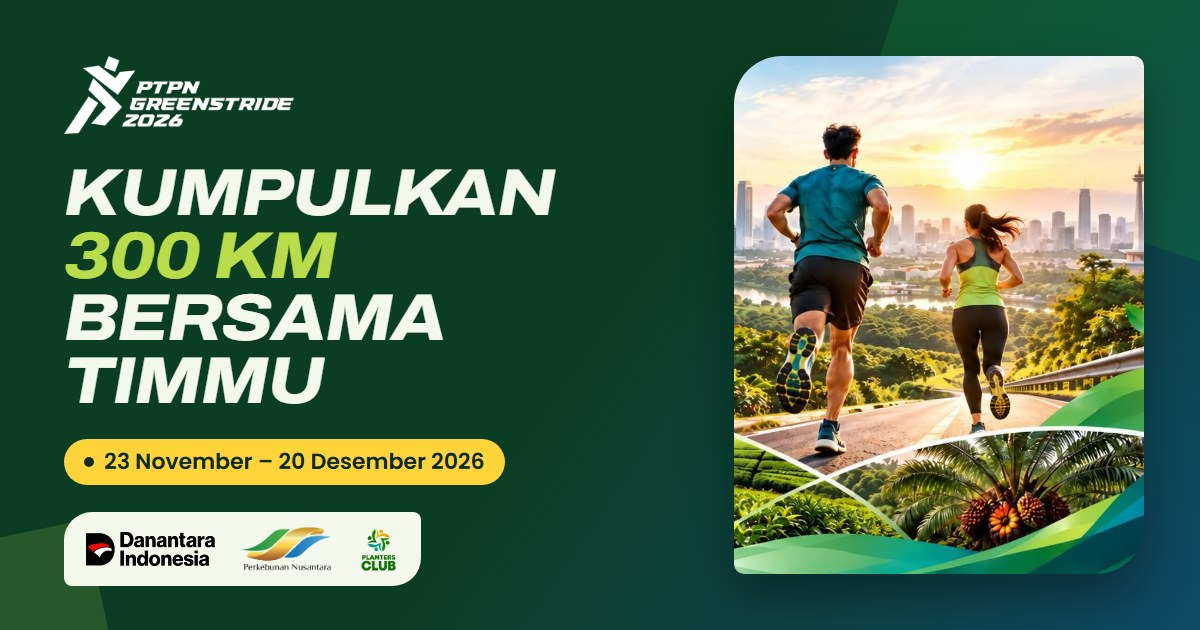
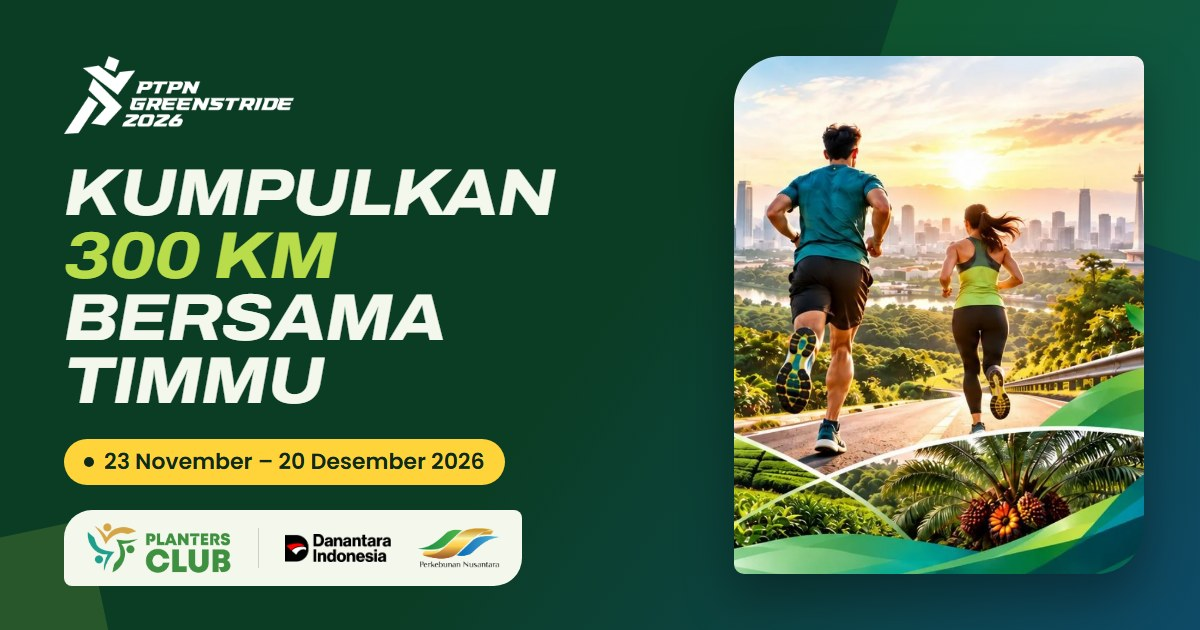
update branding planters club

Changed region(s): [[0.0617, 0.7841, 0.4625, 0.9349]]

diff --git a/app/landing.css b/app/landing.css
@@ -7,7 +7,8 @@ a { color: var(--leaf); }
 ::selection { background: var(--lime); color: var(--on-lime); }
 
 .wrap { width: 100%; max-width: calc(var(--container) + 2 * var(--space-5)); margin-inline: auto; padding-inline: max(var(--space-5), env(safe-area-inset-left, 0px)) max(var(--space-5), env(safe-area-inset-right, 0px)); }
-.section { padding-block: var(--space-9); }
+/* clip (bukan hidden) memotong hiasan yang keluar tepi, misalnya daun di belakang ponsel AppSteps, tanpa merusak sticky. */
+.section { padding-block: var(--space-9); overflow-x: clip; }
 .section--tint { background: var(--surface-tint); }
 .section__head { margin-bottom: var(--space-7); }
 .section__head--row { display: flex; flex-wrap: wrap; align-items: end; justify-content: space-between; gap: var(--space-5); }
@@ -89,9 +90,6 @@ a { color: var(--leaf); }
 .help__body { padding-bottom: var(--space-8); }
 .help__actions { display: flex; flex-wrap: wrap; gap: var(--space-3); align-items: flex-start; margin-top: var(--space-6); }
 .help__runner { display: block; width: 210px; height: auto; align-self: end; }
-.copy-template { display: grid; gap: var(--space-2); }
-.copy-template__status { margin: 0; min-height: 1.4em; font-size: 14px; color: var(--band-muted); }
-.copy-template textarea { width: min(100%, 420px); padding: var(--space-3); border-radius: var(--radius-sm); border: 1px solid var(--band-muted); background: var(--band); color: var(--band-ink); font: 400 14px/1.5 var(--font-text); }
 
 /* ───────── Footer */
 .footer { margin-top: var(--space-9); background: var(--band); color: var(--band-ink); }
@@ -99,13 +97,12 @@ a { color: var(--leaf); }
 .footer__brand { width: 200px; height: auto; }
 .footer__line { margin: var(--space-5) 0 0; font: italic 800 26px/1.15 var(--font-display); font-stretch: 112%; color: var(--lime); }
 .footer__logos { display: inline-flex; flex-wrap: wrap; align-items: center; gap: var(--space-5) var(--space-6); margin-top: var(--space-6); padding: var(--space-4) var(--space-5); background: var(--band-ink); border-radius: var(--radius-leaf) var(--radius-sm); }
-.footer__logos img { height: 36px; width: auto; }
-.footer__logos img + img { height: 48px; }
-.footer__logos img:last-child { height: 56px; }
+.footer__logos img { width: auto; }
+.footer__logo-brand { height: 56px; }
+.footer__logo-parents { display: inline-flex; align-items: center; gap: var(--space-5); padding-left: var(--space-6); border-left: 1px solid rgba(15, 42, 27, 0.18); }
+.footer__logo-parents img:first-child { height: 26px; }
+.footer__logo-parents img:last-child { height: 36px; }
 
-/* logo asli berwarna: di tema gelap, logo header duduk di pelat terang */
-@media (prefers-color-scheme: dark) { :root:not([data-theme="light"]) .gs-nav__logos { padding: 6px var(--space-4); background: var(--band-ink); border-radius: var(--radius-pill); } }
-:root[data-theme="dark"] .gs-nav__logos { padding: 6px var(--space-4); background: var(--band-ink); border-radius: var(--radius-pill); }
 .footer__nav { display: grid; grid-template-columns: repeat(2, minmax(0, 1fr)); gap: var(--space-2) var(--space-5); align-content: start; }
 .footer__nav h3 { grid-column: 1 / -1; margin: 0 0 var(--space-2); font: 600 12px/1.3 var(--font-text); letter-spacing: 0.1em; text-transform: uppercase; color: var(--band-muted); }
 .footer__nav a { padding: 6px 0; color: var(--band-ink); text-decoration: none; font-size: 15px; background: linear-gradient(var(--lime), var(--lime)) 0 100% / 0 2px no-repeat; transition: background-size var(--dur-base) var(--ease-out); justify-self: start; }
@@ -115,7 +112,7 @@ a { color: var(--leaf); }
 
 /* ───────── Responsif */
 @media (max-width: 1080px) {
-  .hero__inner { grid-template-columns: 1fr; gap: var(--space-7); }
+  .hero__inner { grid-template-columns: minmax(0, 1fr); gap: var(--space-7); }
   .hero__visual { max-width: 560px; }
   .hero__count { left: var(--space-4); }
   .faq-center { grid-template-columns: 1fr; }
@@ -132,7 +129,7 @@ a { color: var(--leaf); }
   .split__side { position: static; }
   .apps { grid-template-columns: 1fr; }
   .help { grid-template-columns: 1fr; padding: var(--space-6) var(--space-5) 0; }
-  .help__runner { justify-self: end; width: 150px; margin-top: calc(-1 * var(--space-8)); }
+  .help__runner { justify-self: end; width: 150px; margin-top: calc(-1 * var(--space-6)); }
   .help__body { padding-bottom: 0; }
   .footer__inner { grid-template-columns: 1fr; }
 }
@@ -142,6 +139,11 @@ a { color: var(--leaf); }
   .section__head { margin-bottom: var(--space-6); }
   .hero__inner { padding-block: var(--space-7) var(--space-8); }
   .hero__brand { width: 160px; margin-bottom: var(--space-5); }
+  /* "KUMPULKAN" di 42 px selebar 312 px; di bawah ~350 px judul mengecil ikut layar agar tidak terpotong. */
+  .hero h1 { font-size: min(42px, 12vw); }
+  .footer__logos { display: grid; justify-items: start; gap: var(--space-4); }
+  .footer__logo-brand { height: 48px; }
+  .footer__logo-parents { justify-self: stretch; padding: var(--space-4) 0 0; border-left: 0; border-top: 1px solid rgba(15, 42, 27, 0.18); }
   .hero__lead { font-size: 17px; }
   .hero__actions .gs-btn { flex: 1 1 100%; }
   .hero__count { position: relative; left: 0; width: 100%; margin-top: calc(-1 * var(--space-8)); }

diff --git a/app/ds.css b/app/ds.css
@@ -233,34 +233,30 @@
 @media (max-width: 520px) { .gs-split { padding: var(--space-5); } .gs-split__num { font-size: 40px; } }
 
 /* ───────── Navbar */
-.gs-nav { position: sticky; top: 0; z-index: 20; background: var(--surface-raised); border-bottom: 1px solid var(--line); transition: box-shadow var(--dur-base) var(--ease-out); }
+/* Header berdiri di `band` di kedua tema agar logo Planters Club putih selalu terbaca; menyambung ke hero. */
+.gs-nav { position: sticky; top: 0; z-index: 20; background: var(--band); color: var(--band-ink); border-bottom: 1px solid rgba(243, 247, 236, 0.12); transition: box-shadow var(--dur-base) var(--ease-out); }
 .gs-nav--scrolled { box-shadow: var(--shadow-md); }
 .gs-nav__bar { display: flex; align-items: center; gap: var(--space-5); max-width: var(--container); height: 72px; margin: 0 auto; padding: 0 var(--space-5); }
-.gs-nav__logos { display: flex; align-items: center; gap: var(--space-4); text-decoration: none; }
-.gs-nav__logo { display: inline-flex; align-items: center; }
-.gs-nav__logo img { height: 30px; width: auto; }
-.gs-nav__logo + .gs-nav__logo { padding-left: var(--space-4); border-left: 1px solid var(--line); }
-.gs-nav__logo + .gs-nav__logo img { height: 38px; }
-.gs-logo--dark { display: none; }
-[data-theme="dark"] .gs-logo--light { display: none; }
-[data-theme="dark"] .gs-logo--dark { display: block; }
-@media (prefers-color-scheme: dark) { :root:not([data-theme="light"]) .gs-logo--light { display: none; } :root:not([data-theme="light"]) .gs-logo--dark { display: block; } }
+/* Header hanya memuat logo Planters Club horizontal tanpa pelat: berwarna asli di tema terang, versi putih (srcDark) di tema gelap. */
+.gs-nav__logos { display: flex; align-items: center; min-width: 0; text-decoration: none; }
+.gs-nav__logo { display: inline-flex; align-items: center; flex: none; }
+.gs-nav__logo img { height: 44px; width: auto; }
 .gs-nav__links { display: flex; gap: var(--space-1); margin-left: auto; }
-.gs-nav__links a { position: relative; padding: var(--space-2) var(--space-3); font: 500 15px/1 var(--font-text); color: var(--ink); text-decoration: none; border-radius: var(--radius-sm); transition: color var(--dur-fast) var(--ease-out); }
-.gs-nav__links a::after { content: ""; position: absolute; left: var(--space-3); right: var(--space-3); bottom: 2px; height: 2px; background: var(--leaf); transform: scaleX(0); transform-origin: left; transition: transform var(--dur-base) var(--ease-out); }
-.gs-nav__links a:hover { color: var(--leaf); }
+.gs-nav__links a { position: relative; padding: var(--space-2) var(--space-3); font: 500 15px/1 var(--font-text); color: var(--band-ink); text-decoration: none; white-space: nowrap; border-radius: var(--radius-sm); transition: color var(--dur-fast) var(--ease-out); }
+.gs-nav__links a::after { content: ""; position: absolute; left: var(--space-3); right: var(--space-3); bottom: 2px; height: 2px; background: var(--lime); transform: scaleX(0); transform-origin: left; transition: transform var(--dur-base) var(--ease-out); }
+.gs-nav__links a:hover { color: var(--lime); }
 .gs-nav__links a:hover::after, .gs-nav__links a[aria-current="true"]::after { transform: scaleX(1); }
-.gs-nav__toggle { display: none; margin-left: auto; width: 44px; height: 44px; border: 1px solid var(--line); border-radius: 50%; background: var(--surface-raised); color: var(--ink); cursor: pointer; place-items: center; }
+.gs-nav__toggle { display: none; margin-left: auto; width: 44px; height: 44px; border: 1px solid var(--band-muted); border-radius: 50%; background: transparent; color: var(--band-ink); cursor: pointer; place-items: center; transition: background var(--dur-fast) var(--ease-out); }
+.gs-nav__toggle:hover { background: var(--band-raised); }
 .gs-nav__sheet { display: none; }
 @media (max-width: 860px) {
   .gs-nav__bar { height: 64px; padding: 0 var(--space-4); }
+  .gs-nav__logo img { height: 36px; }
   .gs-nav__links, .gs-nav__cta { display: none; }
   .gs-nav__toggle { display: grid; }
-  .gs-nav__logo img { height: 24px; }
-  .gs-nav__logo + .gs-nav__logo img { height: 30px; }
-  .gs-nav__sheet[data-open="true"] { display: grid; gap: var(--space-1); padding: var(--space-3) var(--space-4) var(--space-5); border-top: 1px solid var(--line); }
-  .gs-nav__sheet a:not(.gs-btn) { display: flex; align-items: center; min-height: 52px; padding: 0 var(--space-3); font: 600 17px/1 var(--font-text); color: var(--ink); text-decoration: none; border-radius: var(--radius-sm); }
-  .gs-nav__sheet a:not(.gs-btn):hover { background: var(--surface-tint); }
+  .gs-nav__sheet[data-open="true"] { display: grid; gap: var(--space-1); padding: var(--space-3) var(--space-4) var(--space-5); border-top: 1px solid rgba(243, 247, 236, 0.12); }
+  .gs-nav__sheet a:not(.gs-btn) { display: flex; align-items: center; min-height: 52px; padding: 0 var(--space-3); font: 600 17px/1 var(--font-text); color: var(--band-ink); text-decoration: none; border-radius: var(--radius-sm); }
+  .gs-nav__sheet a:not(.gs-btn):hover { background: var(--band-raised); }
   .gs-nav__sheet .gs-btn { margin-top: var(--space-3); }
 }
 

diff --git a/design-system/project/components/bundle.css b/design-system/project/components/bundle.css
@@ -233,34 +233,30 @@
 @media (max-width: 520px) { .gs-split { padding: var(--space-5); } .gs-split__num { font-size: 40px; } }
 
 /* ───────── Navbar */
-.gs-nav { position: sticky; top: 0; z-index: 20; background: var(--surface-raised); border-bottom: 1px solid var(--line); transition: box-shadow var(--dur-base) var(--ease-out); }
+/* Header berdiri di `band` di kedua tema agar logo Planters Club putih selalu terbaca; menyambung ke hero. */
+.gs-nav { position: sticky; top: 0; z-index: 20; background: var(--band); color: var(--band-ink); border-bottom: 1px solid rgba(243, 247, 236, 0.12); transition: box-shadow var(--dur-base) var(--ease-out); }
 .gs-nav--scrolled { box-shadow: var(--shadow-md); }
 .gs-nav__bar { display: flex; align-items: center; gap: var(--space-5); max-width: var(--container); height: 72px; margin: 0 auto; padding: 0 var(--space-5); }
-.gs-nav__logos { display: flex; align-items: center; gap: var(--space-4); text-decoration: none; }
-.gs-nav__logo { display: inline-flex; align-items: center; }
-.gs-nav__logo img { height: 30px; width: auto; }
-.gs-nav__logo + .gs-nav__logo { padding-left: var(--space-4); border-left: 1px solid var(--line); }
-.gs-nav__logo + .gs-nav__logo img { height: 38px; }
-.gs-logo--dark { display: none; }
-[data-theme="dark"] .gs-logo--light { display: none; }
-[data-theme="dark"] .gs-logo--dark { display: block; }
-@media (prefers-color-scheme: dark) { :root:not([data-theme="light"]) .gs-logo--light { display: none; } :root:not([data-theme="light"]) .gs-logo--dark { display: block; } }
+/* Header hanya memuat logo Planters Club horizontal tanpa pelat: berwarna asli di tema terang, versi putih (srcDark) di tema gelap. */
+.gs-nav__logos { display: flex; align-items: center; min-width: 0; text-decoration: none; }
+.gs-nav__logo { display: inline-flex; align-items: center; flex: none; }
+.gs-nav__logo img { height: 44px; width: auto; }
 .gs-nav__links { display: flex; gap: var(--space-1); margin-left: auto; }
-.gs-nav__links a { position: relative; padding: var(--space-2) var(--space-3); font: 500 15px/1 var(--font-text); color: var(--ink); text-decoration: none; border-radius: var(--radius-sm); transition: color var(--dur-fast) var(--ease-out); }
-.gs-nav__links a::after { content: ""; position: absolute; left: var(--space-3); right: var(--space-3); bottom: 2px; height: 2px; background: var(--leaf); transform: scaleX(0); transform-origin: left; transition: transform var(--dur-base) var(--ease-out); }
-.gs-nav__links a:hover { color: var(--leaf); }
+.gs-nav__links a { position: relative; padding: var(--space-2) var(--space-3); font: 500 15px/1 var(--font-text); color: var(--band-ink); text-decoration: none; white-space: nowrap; border-radius: var(--radius-sm); transition: color var(--dur-fast) var(--ease-out); }
+.gs-nav__links a::after { content: ""; position: absolute; left: var(--space-3); right: var(--space-3); bottom: 2px; height: 2px; background: var(--lime); transform: scaleX(0); transform-origin: left; transition: transform var(--dur-base) var(--ease-out); }
+.gs-nav__links a:hover { color: var(--lime); }
 .gs-nav__links a:hover::after, .gs-nav__links a[aria-current="true"]::after { transform: scaleX(1); }
-.gs-nav__toggle { display: none; margin-left: auto; width: 44px; height: 44px; border: 1px solid var(--line); border-radius: 50%; background: var(--surface-raised); color: var(--ink); cursor: pointer; place-items: center; }
+.gs-nav__toggle { display: none; margin-left: auto; width: 44px; height: 44px; border: 1px solid var(--band-muted); border-radius: 50%; background: transparent; color: var(--band-ink); cursor: pointer; place-items: center; transition: background var(--dur-fast) var(--ease-out); }
+.gs-nav__toggle:hover { background: var(--band-raised); }
 .gs-nav__sheet { display: none; }
 @media (max-width: 860px) {
   .gs-nav__bar { height: 64px; padding: 0 var(--space-4); }
+  .gs-nav__logo img { height: 36px; }
   .gs-nav__links, .gs-nav__cta { display: none; }
   .gs-nav__toggle { display: grid; }
-  .gs-nav__logo img { height: 24px; }
-  .gs-nav__logo + .gs-nav__logo img { height: 30px; }
-  .gs-nav__sheet[data-open="true"] { display: grid; gap: var(--space-1); padding: var(--space-3) var(--space-4) var(--space-5); border-top: 1px solid var(--line); }
-  .gs-nav__sheet a:not(.gs-btn) { display: flex; align-items: center; min-height: 52px; padding: 0 var(--space-3); font: 600 17px/1 var(--font-text); color: var(--ink); text-decoration: none; border-radius: var(--radius-sm); }
-  .gs-nav__sheet a:not(.gs-btn):hover { background: var(--surface-tint); }
+  .gs-nav__sheet[data-open="true"] { display: grid; gap: var(--space-1); padding: var(--space-3) var(--space-4) var(--space-5); border-top: 1px solid rgba(243, 247, 236, 0.12); }
+  .gs-nav__sheet a:not(.gs-btn) { display: flex; align-items: center; min-height: 52px; padding: 0 var(--space-3); font: 600 17px/1 var(--font-text); color: var(--band-ink); text-decoration: none; border-radius: var(--radius-sm); }
+  .gs-nav__sheet a:not(.gs-btn):hover { background: var(--band-raised); }
   .gs-nav__sheet .gs-btn { margin-top: var(--space-3); }
 }
 

diff --git a/app/page.tsx b/app/page.tsx
@@ -1,5 +1,4 @@
 /* eslint-disable @next/next/no-img-element */
-import CopyTemplate from "@/components/CopyTemplate";
 import Faq from "@/components/Faq";
 import StructuredData from "@/components/StructuredData";
 import { AppCard, Button, Callout, DocumentCard, FactTile, Pillar, RewardCard, SectionHeader } from "@/components/ds";
@@ -247,7 +246,6 @@ export default function Home() {
                 <Button variant="lime" size="lg" href={EVENT.helpdeskUrl} external arrow>
                   Buka Help Desk
                 </Button>
-                <CopyTemplate />
               </div>
             </div>
             <img className="help__runner" src="/img/pelari-greenstride.webp" alt="" width={540} height={1339} loading="lazy" />
@@ -263,11 +261,12 @@ export default function Home() {
               <img className="footer__brand" src="/img/logo-greenstride-white.png" alt="PTPN GreenStride 2026" width={608} height={206} loading="lazy" />
               <p className="footer__line">Every step counts. Every stride matters.</p>
               <div className="footer__logos">
-                <img src="/img/logo-danantara.png" alt="Danantara Indonesia" width={137} height={36} loading="lazy" />
-                <img src="/img/logo-ptpn-holding.png" alt="Perkebunan Nusantara" width={100} height={48} loading="lazy" />
-                <img src="/img/logo-planters-club.png" alt="Planters Club" width={46} height={56} loading="lazy" />
-              </div>
-            </div>
+                <img className="footer__logo-brand" src="/img/logo-planters-club-horizontal.png" alt="Planters Club" width={157} height={56} loading="lazy" />
+                <span className="footer__logo-parents">
+                  <img src="/img/logo-danantara.png" alt="Danantara Indonesia" width={99} height={26} loading="lazy" />
+                  <img src="/img/logo-ptpn-holding.png" alt="Perkebunan Nusantara" width={75} height={36} loading="lazy" />
+                </span>
+              </div>            </div>
             <nav className="footer__nav" aria-label="Footer">
               <h3>Halaman ini</h3>
               <a href="#ringkasan">Ringkasan aturan</a>
@@ -282,7 +281,7 @@ export default function Home() {
             </nav>
           </div>
           <div className="footer__legal">
-            <span>© 2026 PTPN Group · PTPN GreenStride 2026</span>
+            <span>© 2026 Planters Club · PTPN Group</span>
             <span>{EVENT.tagline}</span>
           </div>
         </div>

diff --git a/design-system/project/components/bundle.js b/design-system/project/components/bundle.js
@@ -257,24 +257,22 @@
       return function () { window.removeEventListener("scroll", onScroll); };
     }, []);
     var links = props.links || [];
-    return h("header", { className: cx("gs-nav", scrolled ? "gs-nav--scrolled" : null) },
+    return h("header", { className: cx("gs-nav gs-on-band", scrolled ? "gs-nav--scrolled" : null) },
       h("div", { className: "gs-nav__bar" },
         h("a", { className: "gs-nav__logos", href: props.homeHref || "#top", "aria-label": props.homeLabel || "Beranda" },
           (props.logos || []).map(function (l, i) {
-            return h("span", { key: i, className: "gs-nav__logo" },
-              h("img", { src: l.src, alt: l.alt, className: l.srcDark ? "gs-logo--light" : null }),
-              l.srcDark ? h("img", { src: l.srcDark, alt: "", "aria-hidden": "true", className: "gs-logo--dark" }) : null);
+            return h("span", { key: i, className: "gs-nav__logo" }, h("img", { src: l.src, alt: l.alt }));
           })),
         h("nav", { className: "gs-nav__links", "aria-label": "Utama" }, links.map(function (l) {
           return h("a", { key: l.href, href: l.href, "aria-current": l.current ? "true" : undefined }, l.label);
         })),
-        props.cta ? h(Button, { className: "gs-nav__cta", href: props.cta.href, size: "sm", external: props.cta.external }, props.cta.label) : null,
+        props.cta ? h(Button, { variant: "lime", className: "gs-nav__cta", href: props.cta.href, size: "sm", external: props.cta.external }, props.cta.label) : null,
         h("button", { type: "button", className: "gs-nav__toggle", "aria-expanded": open, "aria-label": open ? "Tutup menu" : "Buka menu", onClick: function () { setOpen(!open); } },
           h(Icon, { name: open ? "close" : "chevron-down", size: 20 }))
       ),
       h("div", { className: "gs-nav__sheet", "data-open": open ? "true" : "false" },
         links.map(function (l) { return h("a", { key: l.href, href: l.href, onClick: function () { setOpen(false); } }, l.label); }),
-        props.cta ? h(Button, { href: props.cta.href, external: props.cta.external }, props.cta.label) : null
+        props.cta ? h(Button, { variant: "lime", href: props.cta.href, external: props.cta.external }, props.cta.label) : null
       )
     );
   }

diff --git a/design-system/src/bundle.template.js b/design-system/src/bundle.template.js
@@ -257,24 +257,22 @@
       return function () { window.removeEventListener("scroll", onScroll); };
     }, []);
     var links = props.links || [];
-    return h("header", { className: cx("gs-nav", scrolled ? "gs-nav--scrolled" : null) },
+    return h("header", { className: cx("gs-nav gs-on-band", scrolled ? "gs-nav--scrolled" : null) },
       h("div", { className: "gs-nav__bar" },
         h("a", { className: "gs-nav__logos", href: props.homeHref || "#top", "aria-label": props.homeLabel || "Beranda" },
           (props.logos || []).map(function (l, i) {
-            return h("span", { key: i, className: "gs-nav__logo" },
-              h("img", { src: l.src, alt: l.alt, className: l.srcDark ? "gs-logo--light" : null }),
-              l.srcDark ? h("img", { src: l.srcDark, alt: "", "aria-hidden": "true", className: "gs-logo--dark" }) : null);
+            return h("span", { key: i, className: "gs-nav__logo" }, h("img", { src: l.src, alt: l.alt }));
           })),
         h("nav", { className: "gs-nav__links", "aria-label": "Utama" }, links.map(function (l) {
           return h("a", { key: l.href, href: l.href, "aria-current": l.current ? "true" : undefined }, l.label);
         })),
-        props.cta ? h(Button, { className: "gs-nav__cta", href: props.cta.href, size: "sm", external: props.cta.external }, props.cta.label) : null,
+        props.cta ? h(Button, { variant: "lime", className: "gs-nav__cta", href: props.cta.href, size: "sm", external: props.cta.external }, props.cta.label) : null,
         h("button", { type: "button", className: "gs-nav__toggle", "aria-expanded": open, "aria-label": open ? "Tutup menu" : "Buka menu", onClick: function () { setOpen(!open); } },
           h(Icon, { name: open ? "close" : "chevron-down", size: 20 }))
       ),
       h("div", { className: "gs-nav__sheet", "data-open": open ? "true" : "false" },
         links.map(function (l) { return h("a", { key: l.href, href: l.href, onClick: function () { setOpen(false); } }, l.label); }),
-        props.cta ? h(Button, { href: props.cta.href, external: props.cta.external }, props.cta.label) : null
+        props.cta ? h(Button, { variant: "lime", href: props.cta.href, external: props.cta.external }, props.cta.label) : null
       )
     );
   }

diff --git a/components/interactive.tsx b/components/interactive.tsx
@@ -233,14 +233,11 @@ export function Navbar() {
     };
   }, []);
   return (
-    <header className={`gs-nav${scrolled ? " gs-nav--scrolled" : ""}`}>
+    <header className={`gs-nav gs-on-band${scrolled ? " gs-nav--scrolled" : ""}`}>
       <div className="gs-nav__bar">
-        <a className="gs-nav__logos" href="#top" aria-label="PTPN GreenStride 2026, ke atas">
+        <a className="gs-nav__logos" href="#top" aria-label="Planters Club, PTPN GreenStride 2026, ke atas">
           <span className="gs-nav__logo">
-            <img src="/img/logo-danantara.png" alt="Danantara Indonesia" width={114} height={30} />
-          </span>
-          <span className="gs-nav__logo">
-            <img src="/img/logo-ptpn-holding.png" alt="Perkebunan Nusantara" width={79} height={38} />
+            <img src="/img/logo-planters-club-horizontal-white.png" alt="Planters Club" width={124} height={44} />
           </span>
         </a>
         <nav className="gs-nav__links" aria-label="Utama">
@@ -250,7 +247,7 @@ export function Navbar() {
             </a>
           ))}
         </nav>
-        <a className="gs-btn gs-btn--primary gs-btn--sm gs-nav__cta" href={EVENT.helpdeskUrl} target="_blank" rel="noopener noreferrer">
+        <a className="gs-btn gs-btn--lime gs-btn--sm gs-nav__cta" href={EVENT.helpdeskUrl} target="_blank" rel="noopener noreferrer">
           <Icon name="lifebuoy" size={18} />
           <span>Help Desk</span>
         </a>
@@ -264,7 +261,7 @@ export function Navbar() {
             {n.label}
           </a>
         ))}
-        <a className="gs-btn gs-btn--primary" href={EVENT.helpdeskUrl} target="_blank" rel="noopener noreferrer">
+        <a className="gs-btn gs-btn--lime" href={EVENT.helpdeskUrl} target="_blank" rel="noopener noreferrer">
           <Icon name="lifebuoy" size={18} />
           <span>Buka Help Desk</span>
         </a>

diff --git a/components/StructuredData.tsx b/components/StructuredData.tsx
@@ -4,13 +4,21 @@ import { SITE, SITE_URL } from "@/lib/site";
 
 /** Data terstruktur schema.org agar Google memahami halaman sebagai acara dan pusat jawaban. */
 export default function StructuredData() {
+  // Penyelenggara: Planters Club, di dalam PTPN Group, yang berada di bawah Danantara Indonesia.
   const org = {
     "@type": "Organization",
     "@id": `${SITE_URL}/#organizer`,
-    name: "PTPN Group",
-    alternateName: "PT Perkebunan Nusantara",
-    url: "https://www.ptpn.com",
-    logo: `${SITE_URL}/img/logo-ptpn-holding.png`,
+    name: "Planters Club",
+    logo: `${SITE_URL}/img/logo-planters-club-horizontal.png`,
+    parentOrganization: {
+      "@type": "Organization",
+      "@id": `${SITE_URL}/#ptpn`,
+      name: "PTPN Group",
+      alternateName: "PT Perkebunan Nusantara",
+      url: "https://www.ptpn.com",
+      logo: `${SITE_URL}/img/logo-ptpn-holding.png`,
+      parentOrganization: { "@type": "Organization", name: "Danantara Indonesia" },
+    },
   };
   const data = {
     "@context": "https://schema.org",
@@ -40,10 +48,6 @@ export default function StructuredData() {
         isAccessibleForFree: true,
         inLanguage: "id-ID",
         organizer: { "@id": `${SITE_URL}/#organizer` },
-        sponsor: [
-          { "@type": "Organization", name: "Danantara Indonesia" },
-          { "@type": "Organization", name: "Planters Club" },
-        ],
         offers: { "@type": "Offer", price: 0, priceCurrency: "IDR", availability: "https://schema.org/InStock", url: `${SITE_URL}/`, validThrough: "2026-11-18T23:59:59+07:00" },
         subjectOf: DOCUMENTS.map((d) => ({ "@type": "DigitalDocument", name: d.title, url: `${SITE_URL}${d.href}`, encodingFormat: "application/pdf" })),
       },

diff --git a/design-system/og/og.html b/design-system/og/og.html
@@ -18,9 +18,11 @@
   .sub { margin-top: 18px; font: 500 21px/1.4 Poppins, sans-serif; color: #b8cfb9; }
   .photo { position: absolute; right: 56px; top: 56px; width: 410px; height: 518px; object-fit: cover; object-position: 50% 30%; border-radius: 48px 10px; box-shadow: 0 24px 50px rgba(0,0,0,.35); }
   .logos { position: absolute; left: 64px; bottom: 44px; display: flex; align-items: center; gap: 26px; padding: 12px 22px; background: #f3f7ec; border-radius: 28px 8px; }
-  .logos img { height: 34px; width: auto; display: block; }
-  .logos img + img { height: 44px; }
-  .logos img:last-child { height: 50px; }
+  .logos img { width: auto; display: block; }
+  .logos .brand-pc { height: 52px; }
+  .logos .sep { width: 1px; height: 40px; background: rgba(15, 42, 27, .18); }
+  .logos .dan { height: 28px; }
+  .logos .ptpn { height: 40px; }
 </style></head>
 <body><div class="og">
   <div class="leaf leaf--a"></div><div class="leaf leaf--b"></div>
@@ -31,8 +33,9 @@
   </div>
   <img class="photo" src="../../public/img/hero-runners.webp" alt="">
   <div class="logos">
-    <img src="../../public/img/logo-danantara.png" alt="">
-    <img src="../../public/img/logo-ptpn-holding.png" alt="">
-    <img src="../../public/img/logo-planters-club.png" alt="">
+    <img class="brand-pc" src="../../public/img/logo-planters-club-horizontal.png" alt="">
+    <i class="sep"></i>
+    <img class="dan" src="../../public/img/logo-danantara.png" alt="">
+    <img class="ptpn" src="../../public/img/logo-ptpn-holding.png" alt="">
   </div>
 </div></body></html>

diff --git a/design-system/project/components/index.d.ts b/design-system/project/components/index.d.ts
@@ -21,4 +21,4 @@ export interface FaqItemProps { id?: string; question: ReactNode; defaultOpen?: 
 export interface CalloutProps { tone?: "attention" | "info" | "rule"; title?: string; icon?: IconName; children: ReactNode }
 export interface DocumentCardProps { title: string; description: string; href: string; size?: string; type?: string; download?: string | boolean }
 export interface NavLink { href: string; label: string; current?: boolean }
-export interface NavbarProps { logos: { src: string; srcDark?: string; alt: string }[]; links: NavLink[]; cta?: { href: string; label: string; external?: boolean }; homeHref?: string; homeLabel?: string }
+export interface NavbarProps { logos: { src: string; alt: string }[]; links: NavLink[]; cta?: { href: string; label: string; external?: boolean }; homeHref?: string; homeLabel?: string }

diff --git a/design-system/project/components/Navbar/preview.html b/design-system/project/components/Navbar/preview.html
@@ -7,7 +7,7 @@
 <script>
   var G = window.GreenStride, h = React.createElement;
   ReactDOM.createRoot(document.getElementById("root")).render(h(G.Navbar, {
-  logos: [{ src: "/_blob/da7b296bfe5e41124aed2c44d74a08ca", srcDark: "/_blob/c45ad310d9490f9ee909f06c6c8ed466", alt: "Danantara Indonesia" }, { src: "/_blob/bb5b7beb50f12c0362cebf15b0bf426a", srcDark: "/_blob/6546e4133134d5af0acf355a7e80e37a", alt: "Perkebunan Nusantara" }],
+  logos: [{ src: "/_blob/4f14e61395fc0a6573a45dfe749fbc63", alt: "Planters Club" }],
   links: [{ href: "#ringkasan", label: "Ringkasan", current: true }, { href: "#cara-ikut", label: "Cara ikut" }, { href: "#jadwal", label: "Jadwal" }, { href: "#faq", label: "FAQ" }, { href: "#unduhan", label: "Unduhan" }],
   cta: { href: "https://99virtualrace.com/HDPTPN", label: "Help Desk", external: true }
 }));

diff --git a/lib/faq.ts b/lib/faq.ts
@@ -31,7 +31,7 @@ export const FAQ: FaqItem[] = [
   // Tentang lomba
   {
     id: "apa-itu-greenstride", cat: "umum", q: "Apa itu PTPN GreenStride 2026?",
-    a: ["Lomba lari virtual beregu untuk karyawan PTPN Group, diselenggarakan bersama Planters Club. Kamu lari atau jalan di luar ruangan di mana saja, lalu jaraknya dijumlahkan bersama tim."],
+    a: ["Lomba lari virtual beregu untuk karyawan PTPN Group yang diselenggarakan Planters Club. Kamu lari atau jalan di luar ruangan di mana saja, lalu jaraknya dijumlahkan bersama tim."],
     tags: "virtual run lomba planters club",
   },
   {
